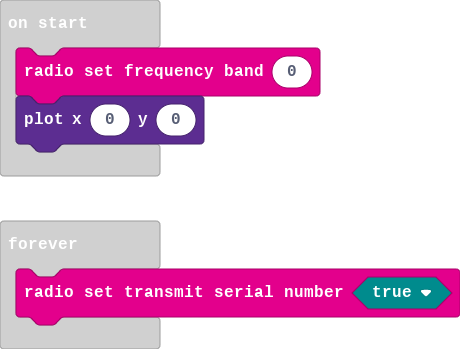
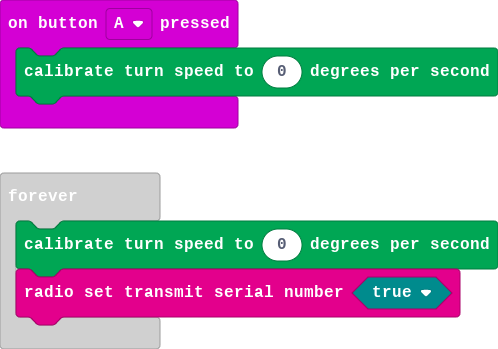
hunter

diff --git a/main.ts b/main.ts
@@ -1,10 +1,9 @@
 input.onButtonPressed(Button.A, function () {
-	
+    kitronik_servo_lite.setDegreesPerSecond(0)
 })
-led.plot(0, 0)
-music.playMelody("- - - - - - - - ", 120)
 radio.setFrequencyBand(0)
 led.plot(0, 0)
 basic.forever(function () {
+    kitronik_servo_lite.setDegreesPerSecond(0)
     radio.setTransmitSerialNumber(true)
 })
